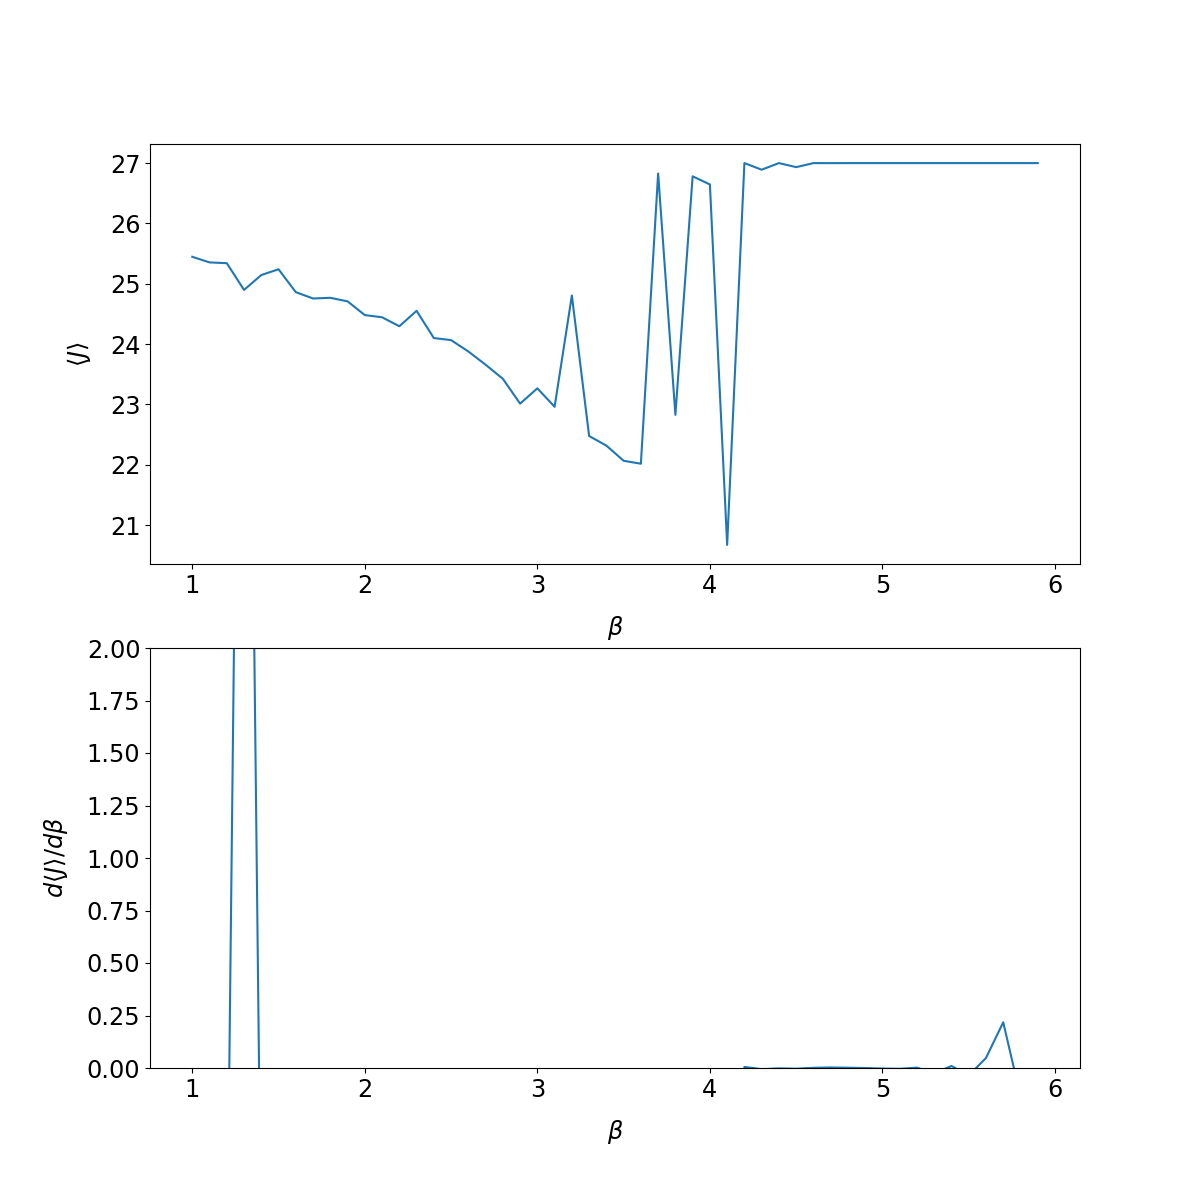
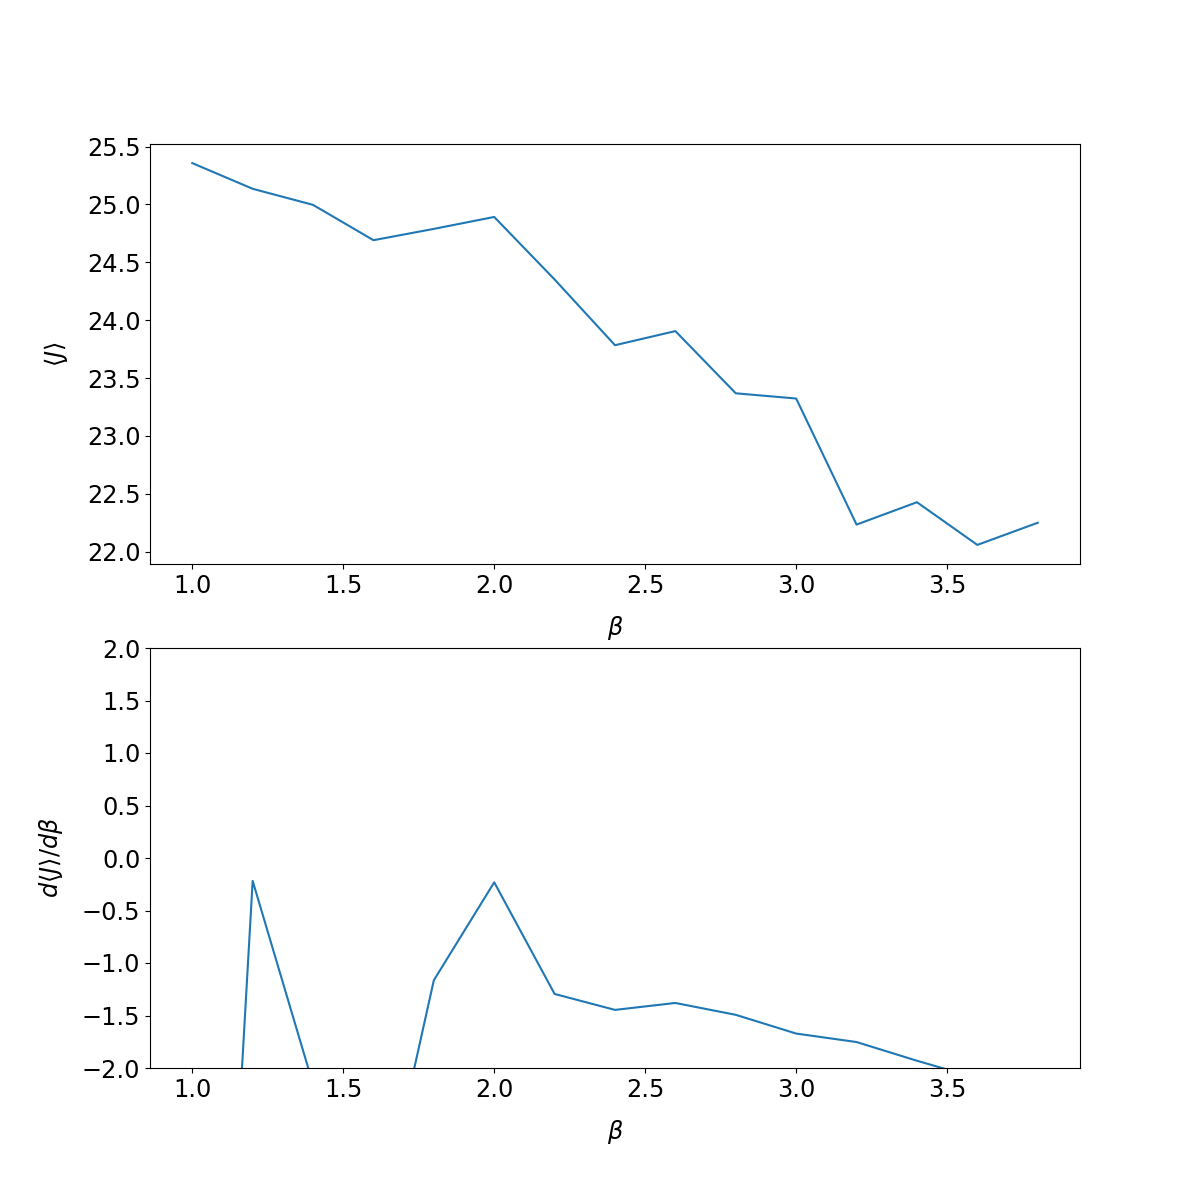
updated figures of beta

diff --git a/app_lorenz.py b/app_lorenz.py
@@ -7,10 +7,10 @@ import matplotlib.pyplot as plt
 from nilss import *
 
 
-par = "sigma"
-par_lb = 5
-par_ub = 15
-step_size = 0.1
+par = "beta"
+par_lb = 1
+par_ub = 4
+step_size = 0.2
 rho = 28
 sigma = 10
 beta = 8. / 3.
@@ -27,8 +27,8 @@ def ddt(uwvs, par, value):
     vstar = uwvs[2]
 
     global rho, sigma, beta
-    dfdrho = np.array([0, x, 0])
     dfdsigma = np.array([y - x, 0, 0])
+    dfdrho = np.array([0, x, 0])
     dfdbeta = np.array([0, 0, -z])
     dfdpar = None
 
@@ -75,15 +75,37 @@ def fJJu(u, par, value):
             z, np.array([0,0,1])
 
 
-def RK4(u, w, vstar, rho):
-    # integrate u, w, and vstar to the next time step
-    uwvs = np.array([u, w, vstar])
-    k0 = dt * ddt(uwvs, rho) 
-    k1 = dt * ddt(uwvs + 0.5 * k0, rho)
-    k2 = dt * ddt(uwvs + 0.5 * k1, rho)
-    k3 = dt * ddt(uwvs + k2, rho)
-    uwvs_new = uwvs + (k0 + 2*k1 + 2*k2 + k3) / 6.0
-    return uwvs_new
+def RK4(u, w, vstar, par, value):
+    # Ensure that u, w, and vstar are numpy arrays
+    u = np.array(u)
+    w = np.array(w)
+    vstar = np.array(vstar)
+    
+    # Keep uwvs as a list, not a numpy array
+    uwvs = [u, w, vstar]  # Keep as a list to avoid creating a ragged array
+    
+    # Compute k0
+    k0_u, k0_w, k0_vstar = ddt(uwvs, par, value)
+    k0_u, k0_w, k0_vstar = dt * np.array(k0_u), dt * np.array(k0_w), dt * np.array(k0_vstar)
+
+    # Compute k1
+    k1_u, k1_w, k1_vstar = ddt([u + 0.5 * k0_u, w + 0.5 * k0_w, vstar + 0.5 * k0_vstar], par, value)
+    k1_u, k1_w, k1_vstar = dt * np.array(k1_u), dt * np.array(k1_w), dt * np.array(k1_vstar)
+
+    # Compute k2
+    k2_u, k2_w, k2_vstar = ddt([u + 0.5 * k1_u, w + 0.5 * k1_w, vstar + 0.5 * k1_vstar], par, value)
+    k2_u, k2_w, k2_vstar = dt * np.array(k2_u), dt * np.array(k2_w), dt * np.array(k2_vstar)
+
+    # Compute k3
+    k3_u, k3_w, k3_vstar = ddt([u + k2_u, w + k2_w, vstar + k2_vstar], par, value)
+    k3_u, k3_w, k3_vstar = dt * np.array(k3_u), dt * np.array(k3_w), dt * np.array(k3_vstar)
+
+    # Update state vectors
+    u_new = u + (k0_u + 2 * k1_u + 2 * k2_u + k3_u) / 6.0
+    w_new = w + (k0_w + 2 * k1_w + 2 * k2_w + k3_w) / 6.0
+    vstar_new = vstar + (k0_vstar + 2 * k1_vstar + 2 * k2_vstar + k3_vstar) / 6.0
+
+    return u_new, w_new, vstar_new
 
 
 def Euler(u, w, vstar, par, value):
@@ -129,6 +151,6 @@ plt.subplot(2, 1, 2)
 plt.plot(par_arr, dJdpar_arr)
 plt.xlabel(fr'${par_label}$')
 plt.ylabel(fr'$d \langle J \rangle / d {par_label}$')
-plt.ylim([0, 2.0])
+plt.ylim([-2.0, 2.0])
 plt.savefig(f'lorenz_{par}.png')
 plt.show()
